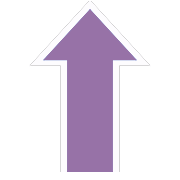
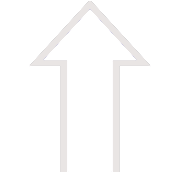
different colors on arrows

diff --git a/Match3Solver/MainWindow.xaml b/Match3Solver/MainWindow.xaml
@@ -5,7 +5,7 @@
         xmlns:mc="http://schemas.openxmlformats.org/markup-compatibility/2006"
         xmlns:local="clr-namespace:Match3Solver"
         mc:Ignorable="d"
-        Title="MainWindow" Height="450" Width="1008.872">
+        Title="MainWindow" Height="471.778" Width="1008.872">
     <Window.Resources>
         <local:CutoffConverter x:Key="ValueConverter" Cutoff="00" />
         <!--STYLES-->
@@ -232,7 +232,7 @@
             <ColumnDefinition Width="811*"/>
             <ColumnDefinition Width="126*"/>
         </Grid.ColumnDefinitions>
-        <ListView x:Name="resultListView" Margin="300,10,11.666,9.667" SelectionChanged="resultListView_SelectionChanged" Grid.ColumnSpan="2">
+        <ListView x:Name="resultListView" Margin="300,10,11.666,9.667" SelectionChanged="resultListView_SelectionChanged" Grid.ColumnSpan="2" IsEnabled="False">
             <ListView.View>
                 <GridView x:Name="resultGridView">
                     <GridViewColumn Header="Pos(Y,X)" CellTemplate="{StaticResource PositionCell}" />

diff --git a/Match3Solver/MainWindow.xaml.cs b/Match3Solver/MainWindow.xaml.cs
@@ -36,6 +36,7 @@ namespace Match3Solver
 
         private int lastScreenHeight = 0;
         private int lastScreenWidth = 0;
+        private int selectedIndex = 0;
 
         [DllImport("user32.dll", SetLastError = true)]
         static extern IntPtr FindWindow(string lpClassName, string lpWindowName);
@@ -69,6 +70,9 @@ namespace Match3Solver
         private const uint VK_9 = 0x39;
         private const uint VK_PLUS = 0xBB;
         private const uint VK_MINUS = 0xBD;
+        private const uint VK_UP = 0x26;
+        private const uint VK_DOWN = 0x28;
+        private const uint VK_O = 0x4F;
 
         private IntPtr _windowHandle;
         private HwndSource _source;
@@ -158,6 +162,9 @@ namespace Match3Solver
             errorString += !RegisterHotKey(_windowHandle, HOTKEY_ID, MOD_CONTROL | MOD_ALT, VK_0) ? "CTRL + ALT + 0, " : "";  //CTRL + ALT + 0
             errorString += !RegisterHotKey(_windowHandle, HOTKEY_ID, MOD_CONTROL | MOD_ALT, VK_MINUS) ? "CTRL + ALT + -, " : ""; //CTRL + ALT + -
             errorString += !RegisterHotKey(_windowHandle, HOTKEY_ID, MOD_CONTROL | MOD_ALT, VK_PLUS) ? "CTRL + ALT + +, " : ""; //CTRL + ALT + +
+            errorString += !RegisterHotKey(_windowHandle, HOTKEY_ID, MOD_CONTROL | MOD_ALT, VK_UP) ? "CTRL + ALT + UP_ARROW, " : ""; //CTRL + ALT + UP_ARROW
+            errorString += !RegisterHotKey(_windowHandle, HOTKEY_ID, MOD_CONTROL | MOD_ALT, VK_DOWN) ? "CTRL + ALT + DOWN_ARROW, " : ""; //CTRL + ALT + DOWN_ARROW
+            errorString += !RegisterHotKey(_windowHandle, HOTKEY_ID, MOD_CONTROL | MOD_ALT, VK_O) ? "CTRL + ALT + O, " : ""; //CTRL + ALT + O
 
             if (!errorString.Equals(""))
             {
@@ -187,6 +194,7 @@ namespace Match3Solver
                                     sortingMode = 1;
                                     draw.highLightMode("1 - Chain First", leftTextBox, rightTextBox);
                                     updateResultView(results);
+                                    resultListView.SelectedIndex = 0;
                                     break;
                                 case VK_2:
                                     sortingMode = 2;
@@ -237,6 +245,26 @@ namespace Match3Solver
                                     sortingMode = 12;
                                     draw.highLightMode("+ - Broken Heart First", rightTextBox, leftTextBox);
                                     updateResultView(results);
+                                    break;
+                                case VK_UP:
+                                    if(this.selectedIndex > 0)
+                                    {
+                                        this.selectedIndex--;
+                                        resultListView.SelectedIndex = this.selectedIndex;
+                                        resultListView.ScrollIntoView(resultListView.Items.GetItemAt(this.selectedIndex));
+                                        hook.drawOverlay(draw.parseMovementAndDraw(results[this.selectedIndex], board[results[this.selectedIndex].yPos][results[this.selectedIndex].xPos], lastScreenHeight, lastScreenWidth));
+                                    }
+                                    break;
+                                case VK_DOWN:
+                                    if(this.selectedIndex < results.Count - 1)
+                                    {
+                                        this.selectedIndex++;
+                                        resultListView.SelectedIndex = this.selectedIndex;
+                                        resultListView.ScrollIntoView(resultListView.Items.GetItemAt(this.selectedIndex));
+                                        hook.drawOverlay(draw.parseMovementAndDraw(results[this.selectedIndex], board[results[this.selectedIndex].yPos][results[this.selectedIndex].xPos], lastScreenHeight, lastScreenWidth));
+                                    }
+                                    break;
+                                case VK_O:
                                     break;
                                 case VK_I:
                                     hook.AttachProcess();
@@ -332,16 +360,18 @@ namespace Match3Solver
             updateResultView(results, lastScreenHeight, lastScreenWidth);
         }
 
-        private void updateResultView(List<SolverInterface.Movement> results, int height, int width)
+        private void updateResultView(List<SolverInterface.Movement> incomingList, int height, int width)
         {
             resultListView.Items.Clear();
             
-            results = solver.sortList(results, sortingMode);
-            hook.drawOverlay(draw.parseMovementAndDraw(results[0], height, width));
+            results = solver.sortList(incomingList, sortingMode);
+            hook.drawOverlay(draw.parseMovementAndDraw(results[0], board[results[0].yPos][results[0].xPos], height, width));
             results.ForEach(result =>
             {
                 resultListView.Items.Add(new resultItem(result));
             });
+            selectedIndex = 0;
+            resultListView.SelectedIndex = 0;
 
         }
 

diff --git a/Match3Solver/UIFunctions.cs b/Match3Solver/UIFunctions.cs
@@ -72,8 +72,41 @@ namespace Match3Solver
             return stream;
         }
 
-        public Capture.Hook.Common.Overlay parseMovementAndDraw(SolverInterface.Movement command, int height, int width)
+        public Capture.Hook.Common.Overlay parseMovementAndDraw(SolverInterface.Movement command, int cellColor, int height, int width)
         {
+
+            System.Drawing.Color tint = new System.Drawing.Color();
+            switch (cellColor)
+            {
+                case 0:
+                    tint = System.Drawing.Color.DarkMagenta;
+                    break;
+                case 1:
+                    tint = System.Drawing.Color.Magenta;
+                    break;
+                case 2:
+                    tint = System.Drawing.Color.Black;
+                    break;
+                case 3:
+                    tint = System.Drawing.Color.Cyan;
+                    break;
+                case 4:
+                    tint = System.Drawing.Color.MediumBlue;
+                    break;
+                case 5:
+                    tint = System.Drawing.Color.Firebrick;
+                    break;
+                case 6:
+                    tint = System.Drawing.Color.LimeGreen;
+                    break;
+                case 7:
+                    tint = System.Drawing.Color.DarkOrange;
+                    break;
+                case 8:
+                    tint = System.Drawing.Color.Yellow;
+                    break;
+            }
+
             // CENTER = 1200X35 ON 3840X2160
             // PIXEL TO CHECK 1227X364 ON 3840X2160
             int startX = (int)(width * 0.2961);
@@ -94,7 +127,7 @@ namespace Match3Solver
                 int xOffset = command.isVertical ? 0 : (command.amount > 0) ? i-1 : i;
                 int yOffset = command.isVertical ? (command.amount > 0) ? i - 1 : i : 0;
 
-                elem.Add(new Capture.Hook.Common.ImageElement() { Location = new System.Drawing.Point((startX + (offset * command.xPos)) + (offset * xOffset) + directionOffsetX, (startY + (offset * command.yPos)) + (offset * yOffset) + directionOffsetY), Image = command.isVertical ? arrowTailV[0] : arrowTailH[0], Scale = (float)((float)width / 3840) });
+                elem.Add(new Capture.Hook.Common.ImageElement() { Location = new System.Drawing.Point((startX + (offset * command.xPos)) + (offset * xOffset) + directionOffsetX, (startY + (offset * command.yPos)) + (offset * yOffset) + directionOffsetY), Image = command.isVertical ? arrowTailV[0] : arrowTailH[0], Scale = (float)((float)width / 3840), Tint = tint });
 
                 if (i >= 0) i--;
                 else i++;
@@ -108,7 +141,7 @@ namespace Match3Solver
             int headOffsetY = command.isVertical ? ((command.amount > 0) ? (int)(-1 * (width * 0.0489584)) : (int)(width * 0.002604167)) : ((command.amount > 0) ? (int)(width * 0.00078125) : 1);
 
             // HEAD
-            elem.Add(new Capture.Hook.Common.ImageElement() { Location = new System.Drawing.Point(startX + (offset * finalX) + directionOffsetX + headOffsetX, startY + (offset * finalY) + directionOffsetY + headOffsetY), Image = command.isVertical ? arrowHeadV[0] : arrowHeadH[0], Angle = (command.amount > 0) ? 3.14159f : 0.0f, Scale = (float)((float)width / 3840) });
+            elem.Add(new Capture.Hook.Common.ImageElement() { Location = new System.Drawing.Point(startX + (offset * finalX) + directionOffsetX + headOffsetX, startY + (offset * finalY) + directionOffsetY + headOffsetY), Image = command.isVertical ? arrowHeadV[0] : arrowHeadH[0], Angle = (command.amount > 0) ? 3.14159f : 0.0f, Scale = (float)((float)width / 3840), Tint = tint });
 
             return new Capture.Hook.Common.Overlay
             {

diff --git a/Match3Solver/GameHook.cs b/Match3Solver/GameHook.cs
@@ -88,7 +88,10 @@ namespace Match3Solver
 
         public void drawOverlay(Capture.Hook.Common.Overlay items)
         {
-            _captureProcess.CaptureInterface.DrawOverlayInGame(items);
+            if (hooked)
+            {
+                _captureProcess.CaptureInterface.DrawOverlayInGame(items);
+            }
         }
 
         /// <summary>
